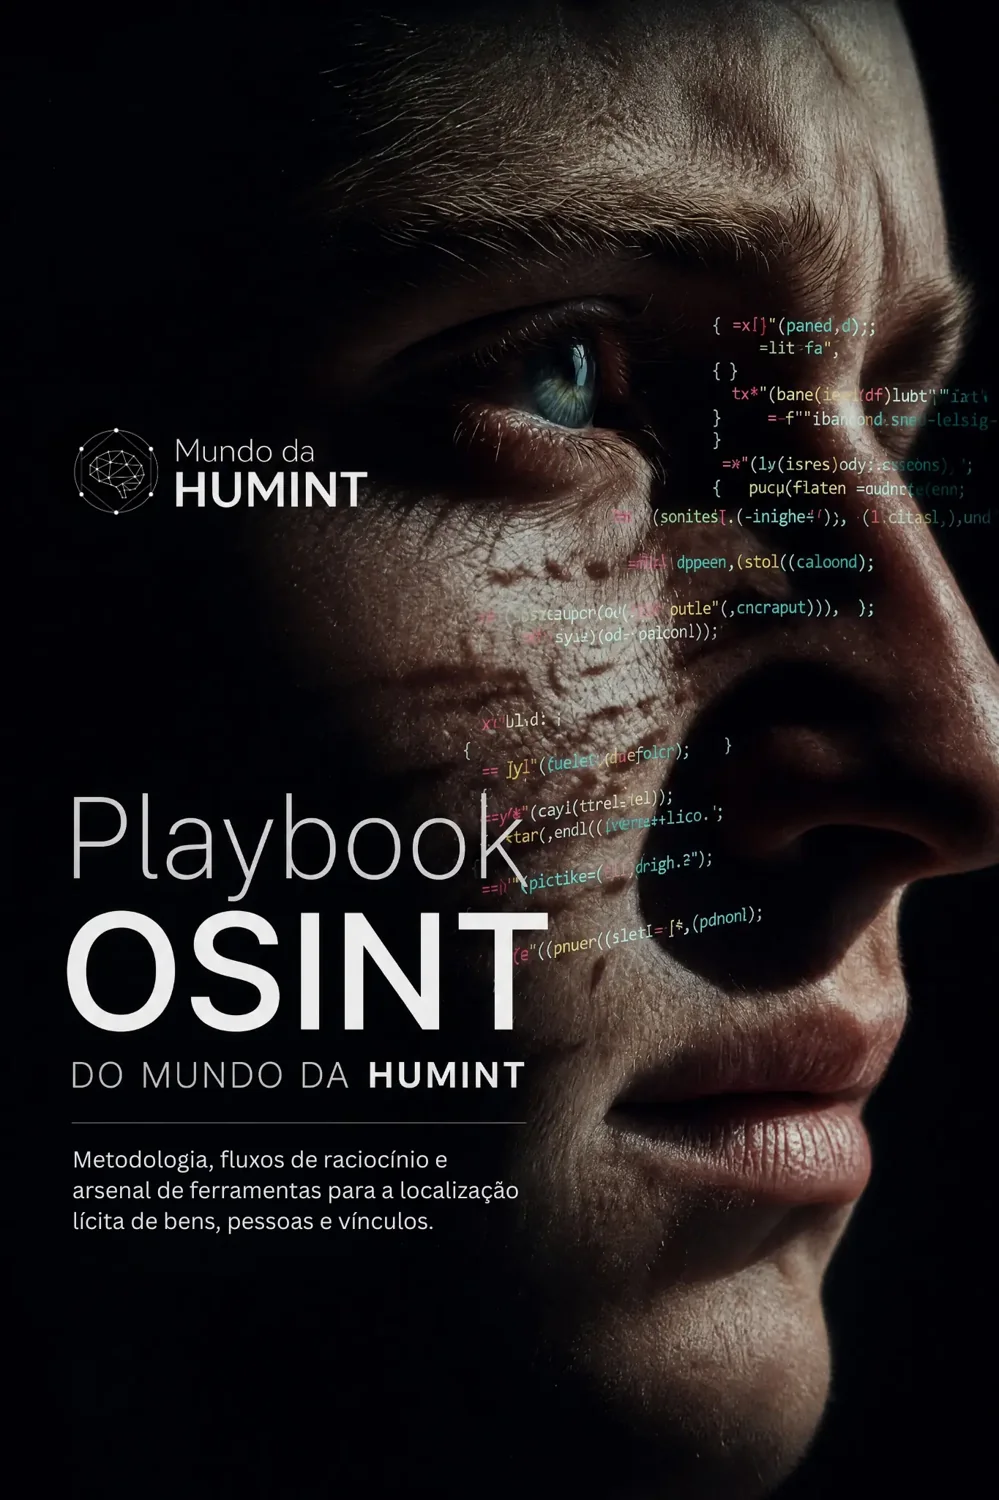
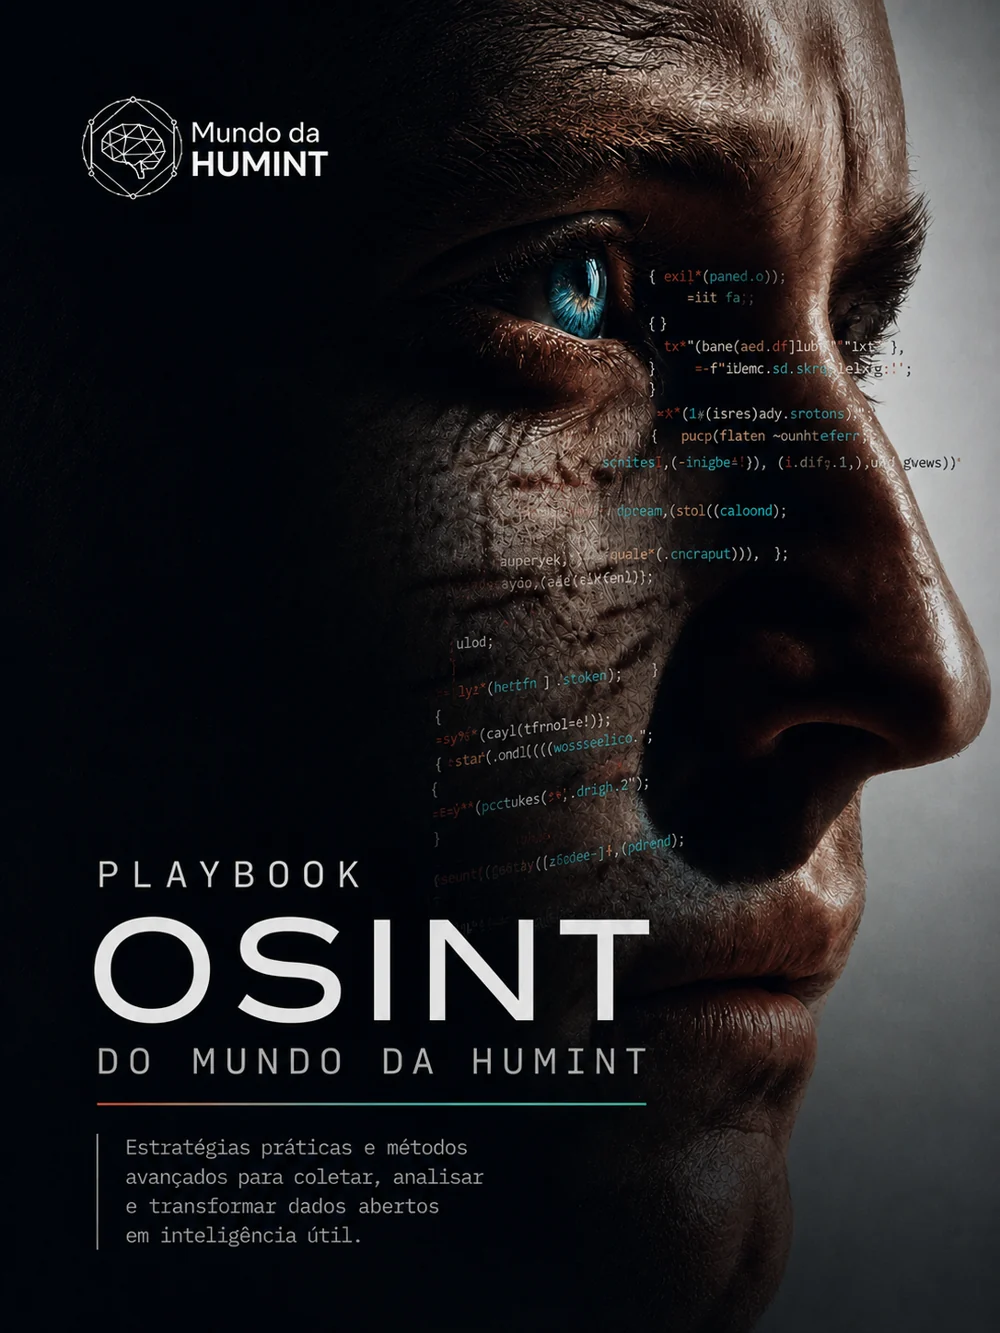
fix(shop): capas finais corretas (acervo, osint, eng social) em 3:4

diff --git a/lib/products.ts b/lib/products.ts
@@ -63,7 +63,7 @@ export const PRODUCTS: Product[] = [
     ],
     image: "/images/shop/acervo-tatico.webp",
     imageAlt:
-      "Pôster do Acervo Tático HUMINT: silhueta de um rosto dividido em dois tons, com o título ACERVO TÁTICO HUMINT.",
+      "Pôster Acervo Tático HUMINT em estilo dossiê: silhueta sob fragmentos de documentos confidenciais.",
     checkoutUrl:
       "https://pay.herospark.com/acervo-tatico-de-inteligencia-humana-525712",
     destaque: true,
@@ -84,7 +84,7 @@ export const PRODUCTS: Product[] = [
     ],
     image: "/images/shop/engenharia-social.webp",
     imageAlt:
-      "Capa Engenharia Social: Os Fundamentos — figura observando uma cidade ao entardecer em tons de vermelho.",
+      "Capa Engenharia Social: multidão de silhuetas com figuras em vermelho e uma figura mascarada de óculos.",
     checkoutUrl:
       "https://pay.herospark.com/fundamentos-de-engenharia-social-principios-de-campo-525751",
   },
@@ -98,7 +98,7 @@ export const PRODUCTS: Product[] = [
       "Guia prático de OSINT: técnicas e fluxo de trabalho para investigação de fontes abertas, em formato ebook (PDF).",
     image: "/images/shop/osint-playbook.webp",
     imageAlt:
-      "Capa do Playbook OSINT do Mundo da HUMINT: rosto com sobreposição de código e o título Playbook OSINT.",
+      "Capa Playbook OSINT do Mundo da HUMINT: rosto em perfil com código sobreposto.",
     checkoutUrl:
       "https://pay.herospark.com/osint-playbook-guia-pratico-by-mundo-da-humint-525745",
   },

diff --git a/components/shop/product-card.tsx b/components/shop/product-card.tsx
@@ -21,7 +21,7 @@ export function ProductCard({ product, priority }: Props) {
       ].join(" ")}
     >
       {/* Capa real do produto (object-contain sobre fundo escuro para exibir o pôster inteiro) */}
-      <div className="relative aspect-[4/5] overflow-hidden bg-deep">
+      <div className="relative aspect-[3/4] overflow-hidden bg-deep">
         <Image
           src={product.image || "/placeholder.svg"}
           alt={product.imageAlt}
@@ -29,7 +29,7 @@ export function ProductCard({ product, priority }: Props) {
           sizes="(min-width: 1024px) 400px, (min-width: 640px) 50vw, 100vw"
           priority={priority}
           loading={priority ? "eager" : "lazy"}
-          className="object-contain transition-transform duration-500 group-hover:scale-[1.03]"
+          className="object-cover transition-transform duration-500 group-hover:scale-[1.03]"
         />
         <span className="absolute left-3 top-3 inline-block bg-ink px-2.5 py-1 font-mono text-[10px] uppercase tracking-widest text-paper">
           {product.tipo}

diff --git a/app/shop/[slug]/page.tsx b/app/shop/[slug]/page.tsx
@@ -51,14 +51,14 @@ export default async function ProductPage({ params }: Props) {
 
       <div className="container-editorial grid gap-10 py-10 md:py-14 lg:grid-cols-2">
         {/* Capa real */}
-        <div className="relative aspect-[4/5] w-full overflow-hidden border border-line bg-deep">
+        <div className="relative aspect-[3/4] w-full overflow-hidden border border-line bg-deep">
           <Image
             src={product.image || "/placeholder.svg"}
             alt={product.imageAlt}
             fill
             sizes="(min-width: 1024px) 600px, 100vw"
             priority
-            className="object-contain"
+            className="object-cover"
           />
           <span className="absolute left-3 top-3 inline-block bg-ink px-2.5 py-1 font-mono text-[10px] uppercase tracking-widest text-paper">
             {product.tipo}
